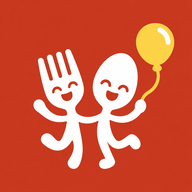
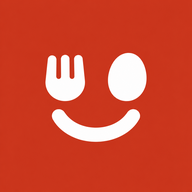
Novo ícone: rosto com garfo e colher
Claude-Session: https://claude.ai/code/session_01DktGG7r6EFAnnT2CSa9BK5

Changed region(s): [[0.1562, 0.0938, 0.9062, 0.9062]]

diff --git a/index.html b/index.html
@@ -5,8 +5,8 @@
     <meta name="viewport" content="width=device-width, initial-scale=1, maximum-scale=1, user-scalable=no, viewport-fit=cover" />
     <meta name="theme-color" content="#C8361F" />
     <meta name="description" content="Onde comer hoje, com espaço kids." />
-    <link rel="icon" type="image/png" href="/favicon.png?v=2" />
-    <link rel="apple-touch-icon" href="/apple-touch-icon.png?v=2" />
+    <link rel="icon" type="image/png" href="/favicon.png?v=3" />
+    <link rel="apple-touch-icon" href="/apple-touch-icon.png?v=3" />
     <link rel="preconnect" href="https://fonts.googleapis.com" />
     <link rel="preconnect" href="https://fonts.gstatic.com" crossorigin />
     <link
